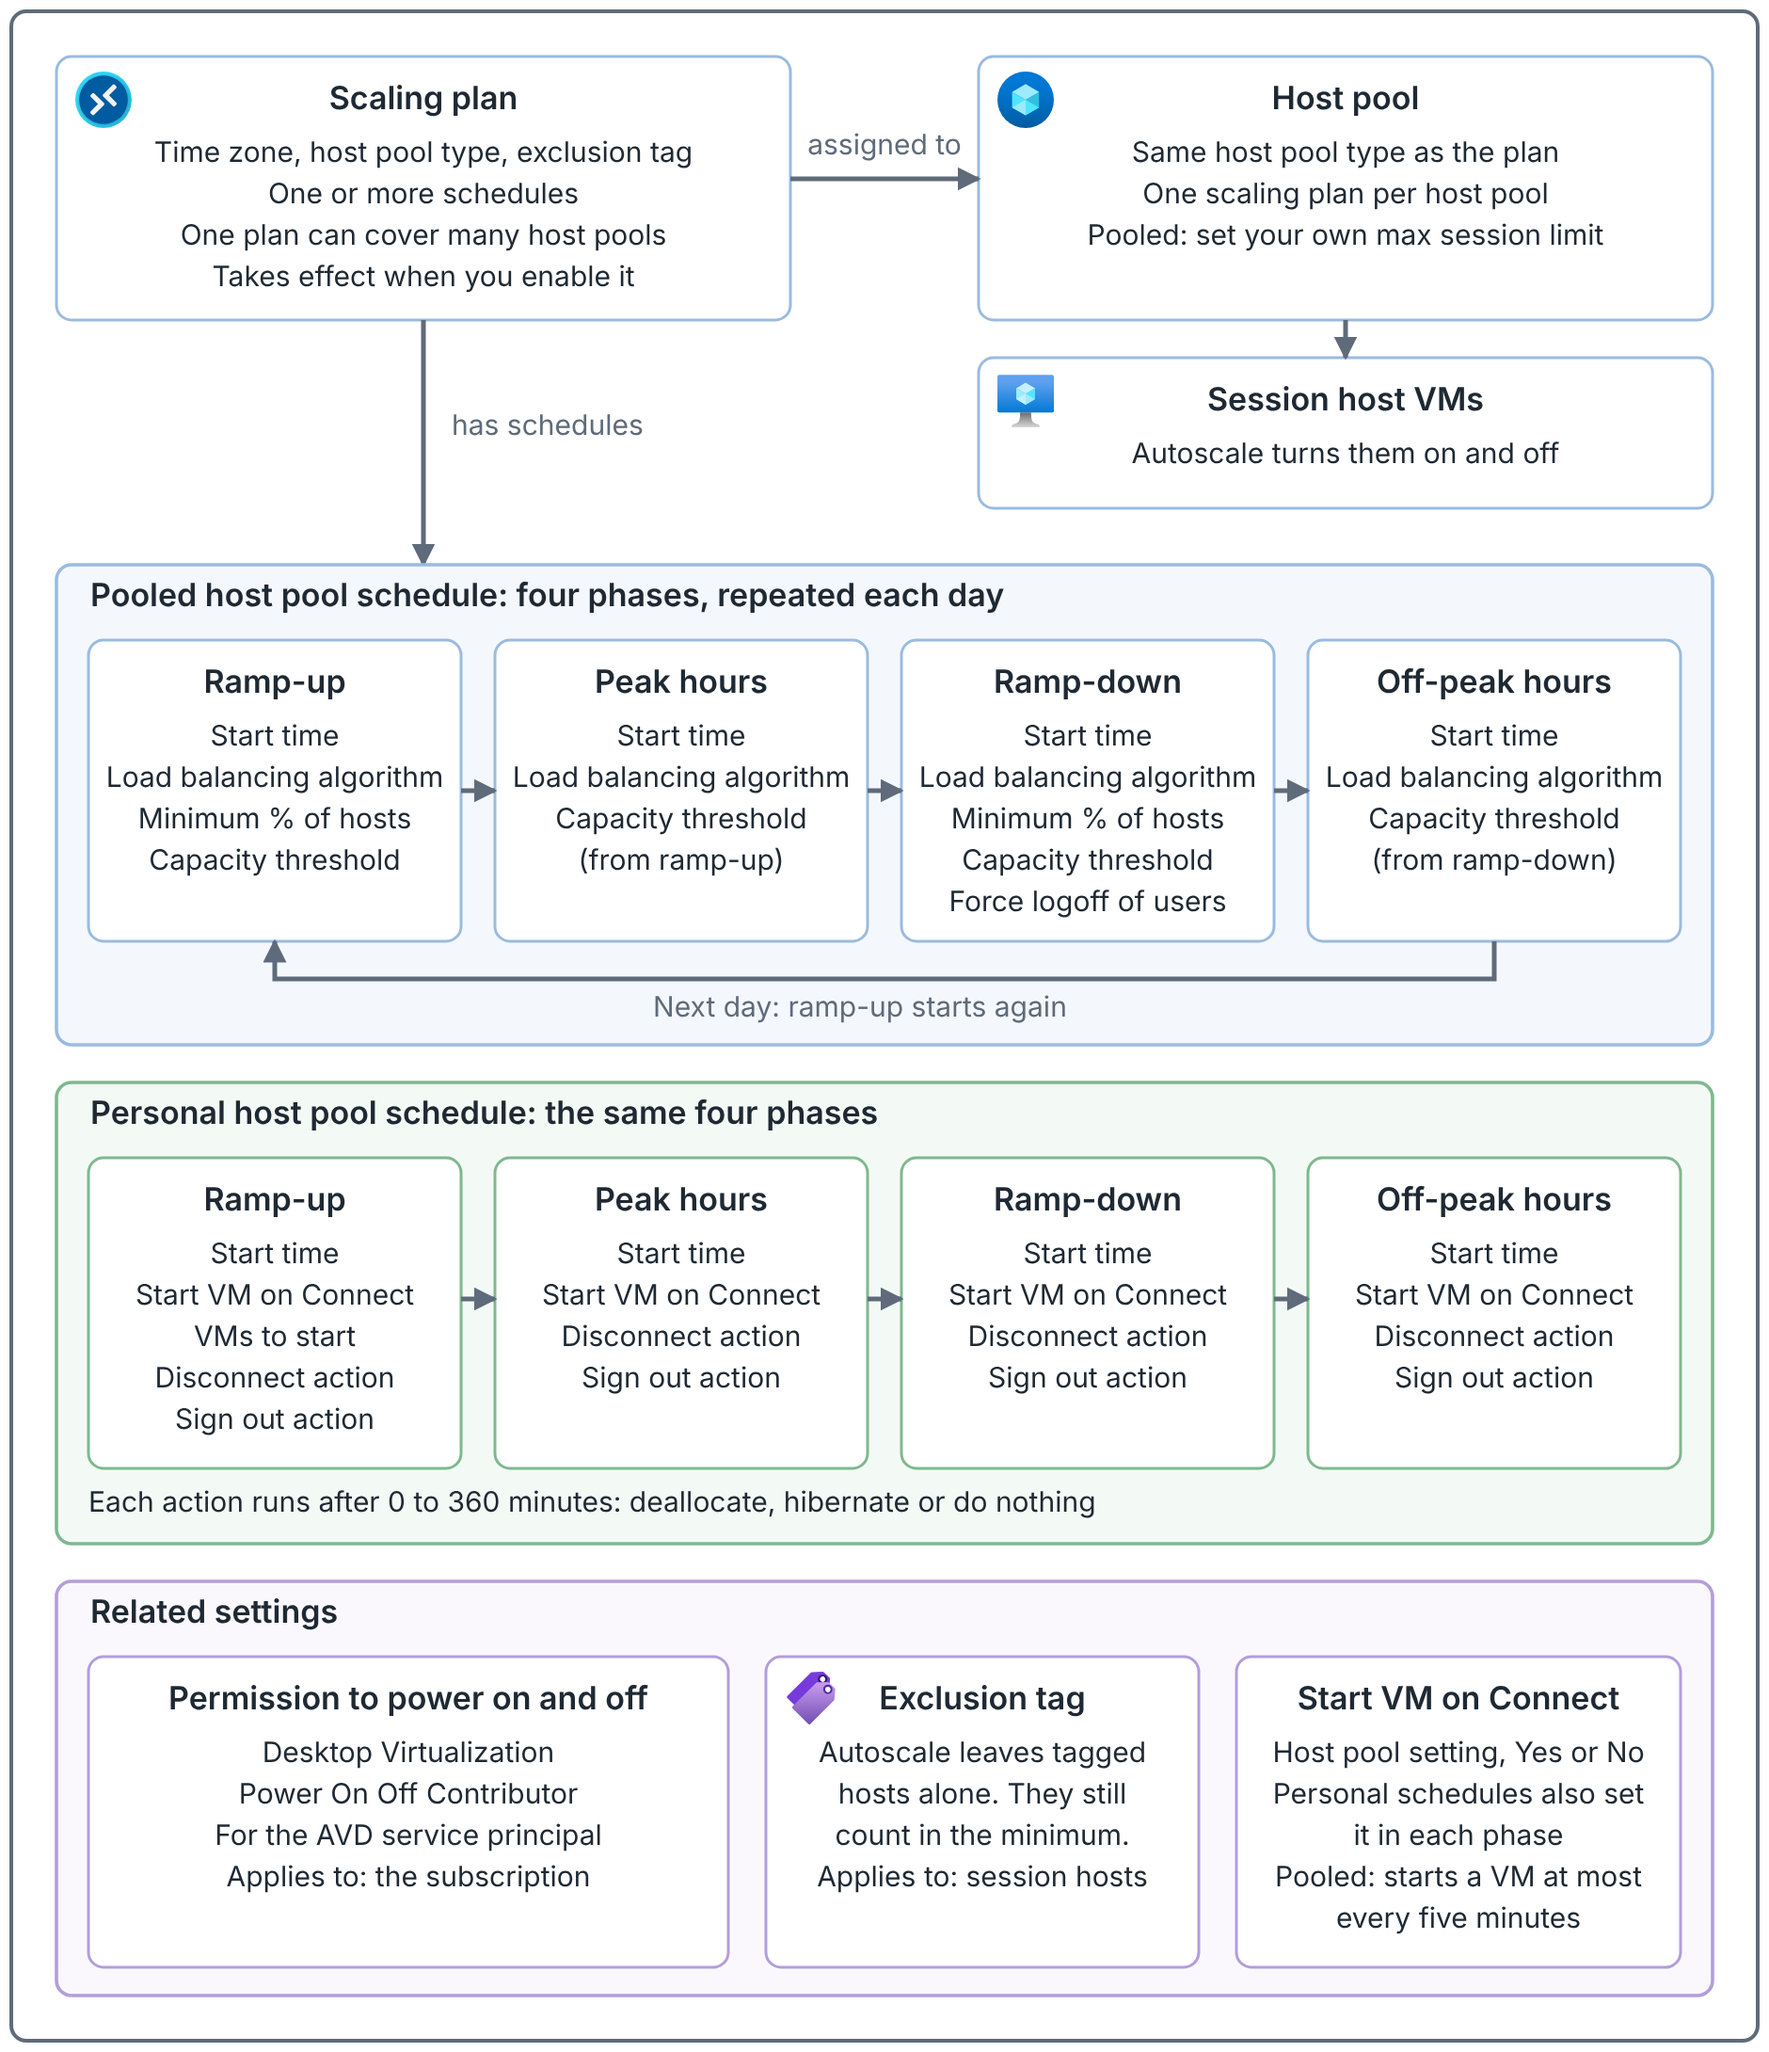
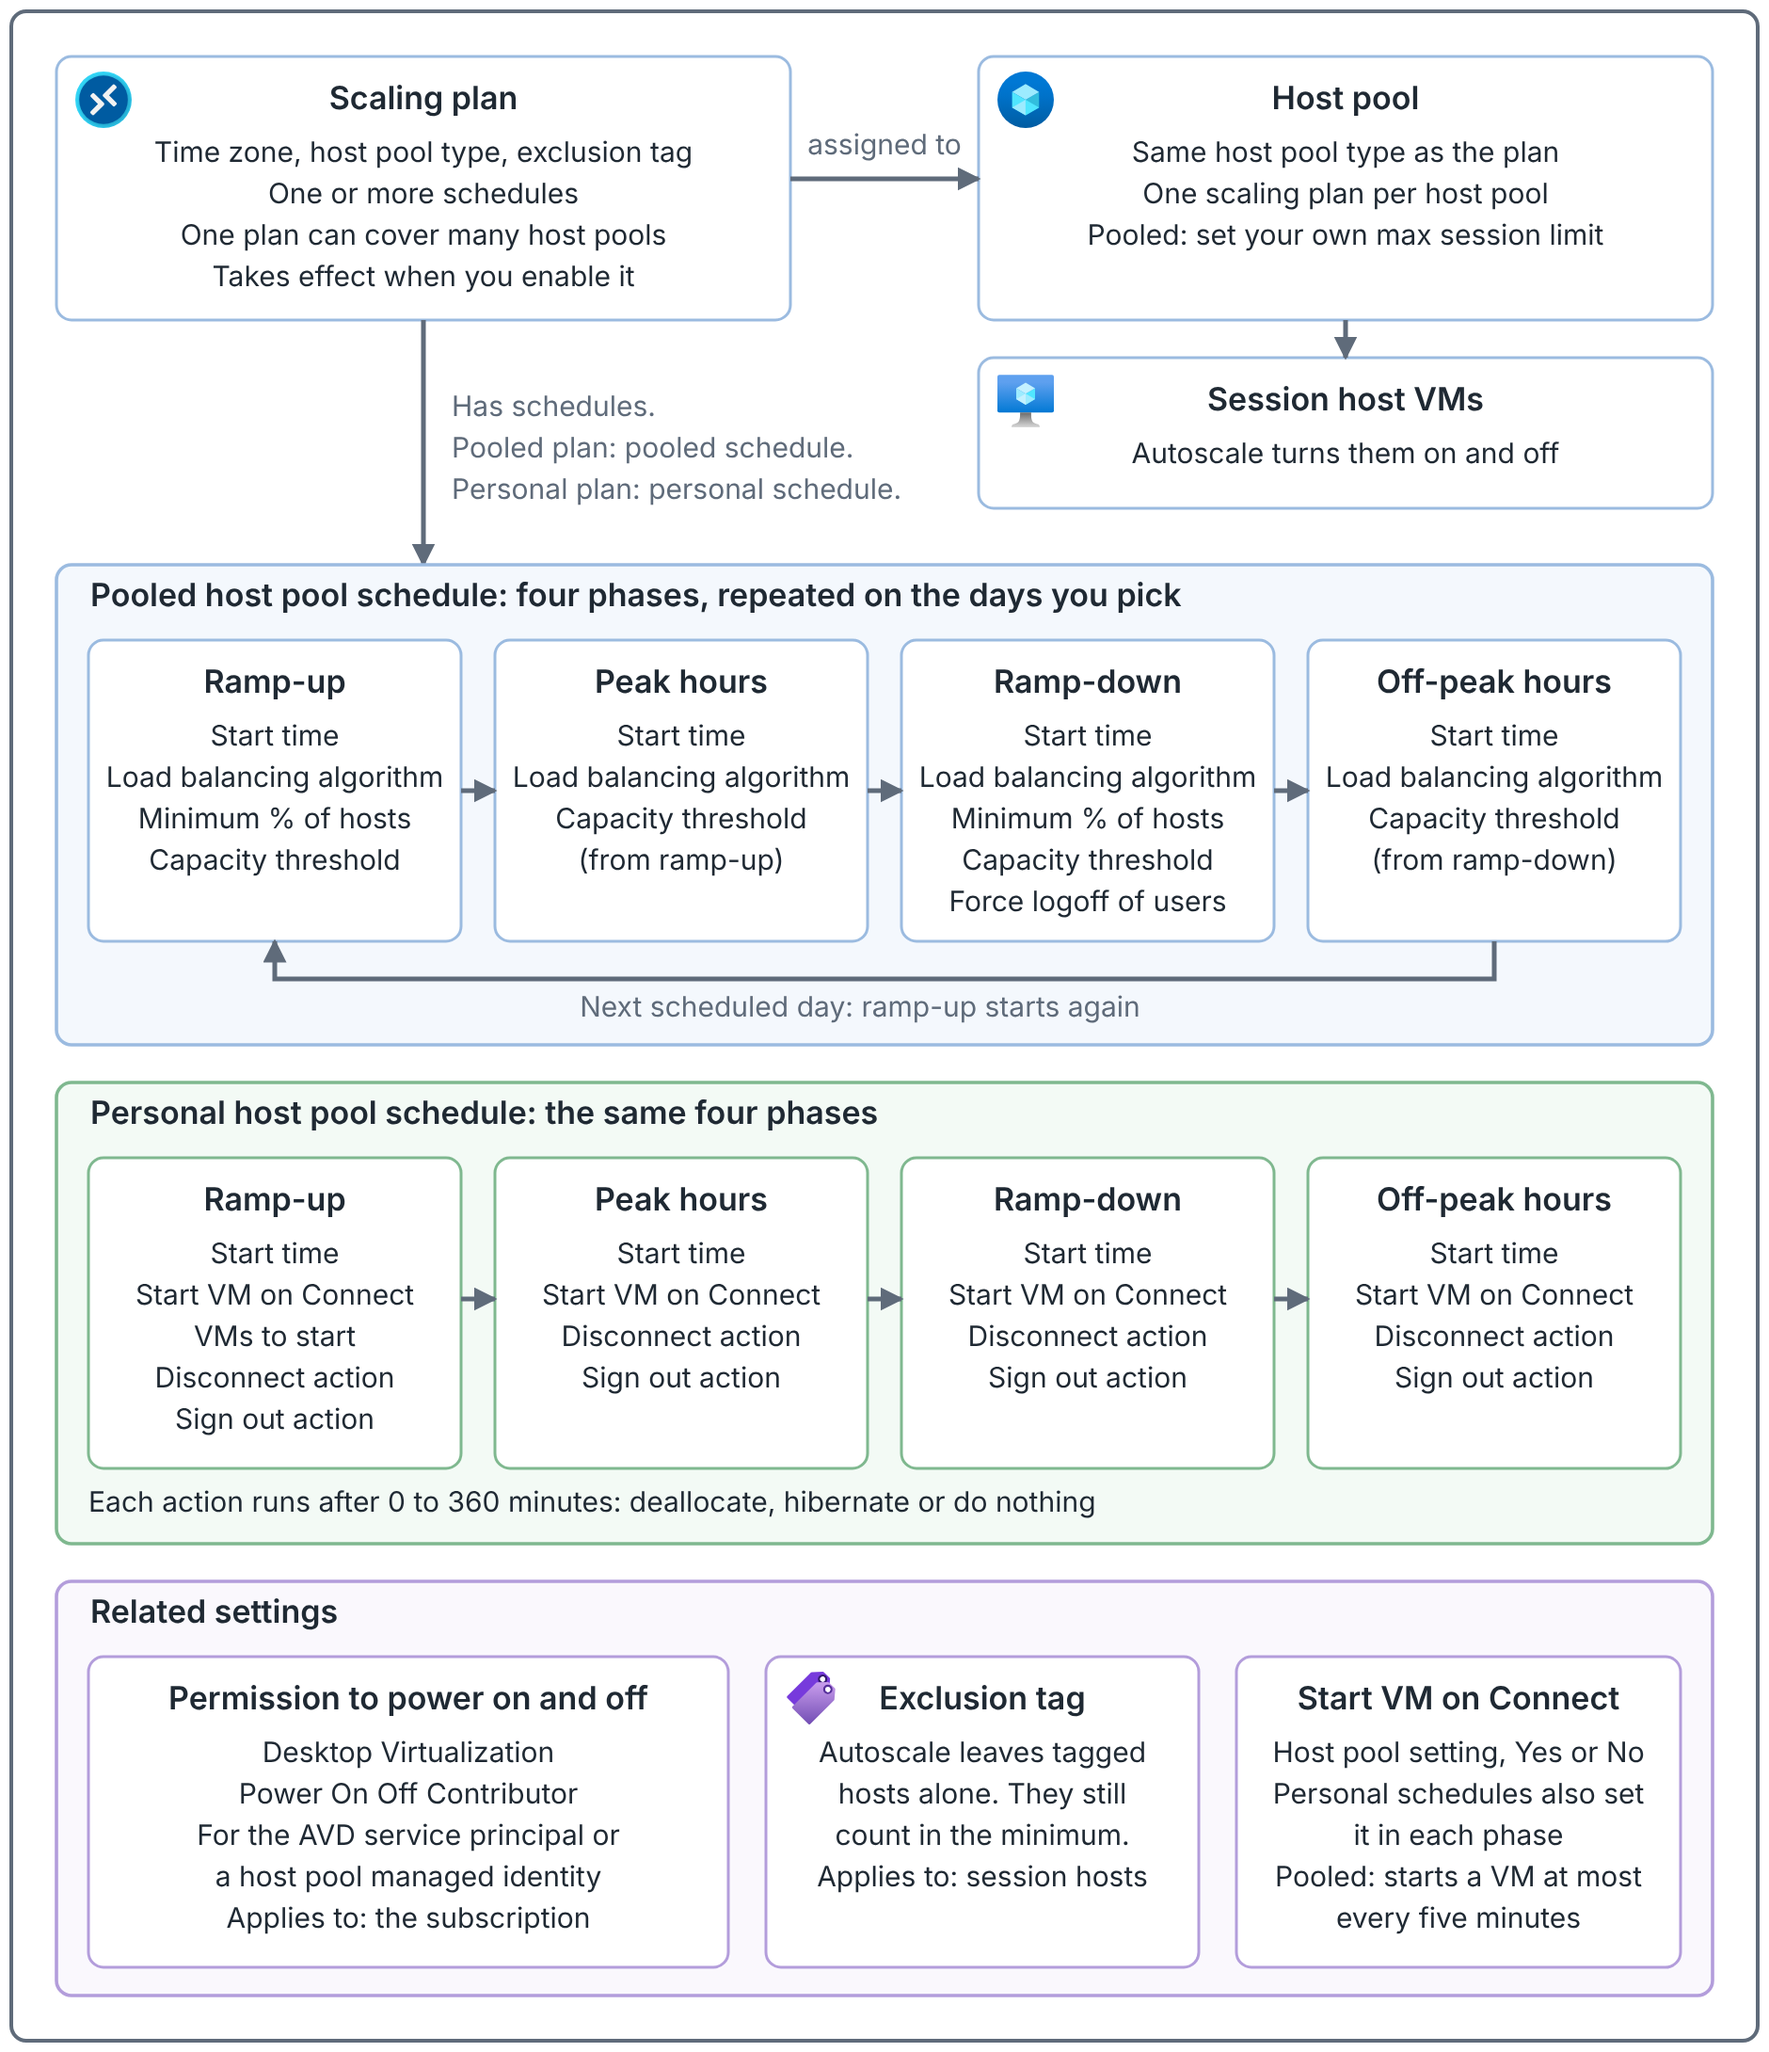
Fix wording in scaling plans and hub-and-spoke diagrams after final audit

diff --git a/src/posts/avd-33-scale-with-scaling-plans.md b/src/posts/avd-33-scale-with-scaling-plans.md
@@ -64,7 +64,7 @@ A scaling plan defines the schedules for scaling the session hosts of a host poo
 
 When you create a plan you also choose a scaling method. Power management autoscaling powers hosts on and off. Use it for a host pool with standard management, which means a host pool without a session host configuration. The other method is dynamic autoscaling, described near the end.
 
-![A scaling plan is assigned to one or more host pools of the same type, and autoscale turns the session host VMs on and off. A pooled schedule has ramp-up, peak, ramp-down and off-peak phases with load balancing, minimum hosts, capacity threshold and force logoff settings, and repeats each day. A personal schedule has the same four phases with Start VM on Connect, disconnect and sign out actions. Related settings: the Power On Off Contributor role at the subscription, the exclusion tag on session hosts, and Start VM on Connect on the host pool.](/img/avd/avd-scaling-plans.svg)
+![A scaling plan is assigned to one or more host pools of the same type. A pooled plan uses pooled schedules and a personal plan uses personal schedules. Autoscale turns the session host VMs on and off. A pooled schedule has ramp-up, peak, ramp-down and off-peak phases with load balancing, minimum hosts, capacity threshold and force logoff settings, and repeats on the days you select. A personal schedule has the same four phases with Start VM on Connect, disconnect and sign out actions. Related settings: the Power On Off Contributor role for the AVD service principal or a host pool managed identity at the subscription, the exclusion tag on session hosts, and Start VM on Connect on the host pool.](/img/avd/avd-scaling-plans.svg)
 
 *Source: [Create and assign an autoscale scaling plan for Azure Virtual Desktop](https://learn.microsoft.com/en-us/azure/virtual-desktop/autoscale-scaling-plan), [Autoscale scaling plans and example scenarios in Azure Virtual Desktop](https://learn.microsoft.com/en-us/azure/virtual-desktop/autoscale-scenarios) and [Configure Start VM on Connect](https://learn.microsoft.com/en-us/azure/virtual-desktop/start-virtual-machine-connect).*
 
